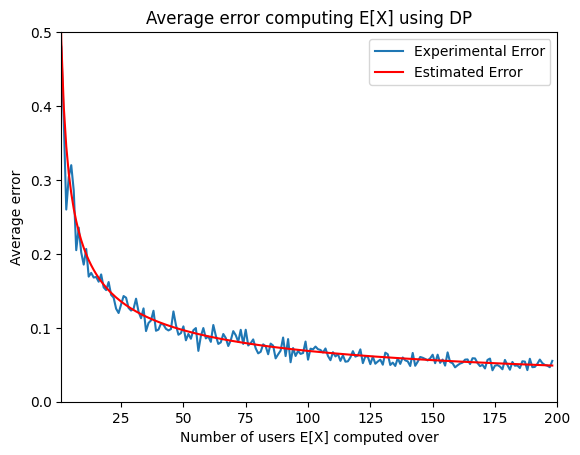
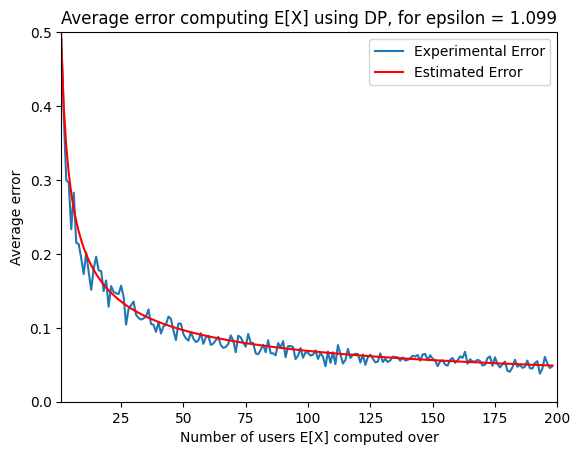
abstract epsilon

Changed region(s): [[0.1241, 0.4923, 0.9621, 0.8308], [0.0931, 0.0, 0.9621, 0.0615], [0.0931, 0.3385, 0.1552, 0.4923]]

diff --git a/Generate_QR_Token.py b/Generate_QR_Token.py
@@ -14,6 +14,7 @@ import base64
 import OpenSSL
 import numpy as np
 from OpenSSL import crypto
+import math
 from math import sqrt, pi, exp
 
 
@@ -43,61 +44,26 @@ class TokenData:
 
         return self.cert_bytes + cert_sign_len + cert_sign_bytes
 
+# return the token value based on the test_result input. Test result is 0 or 1.
+def output_token(test_result, epsilon):
 
-# Simulate issuing nUsers health tokens from a prior distribution priorP.
-# The number of risk classes k is derived from len(priorP)
-# Returns the real user antibody statuses, the randomised health tokens and
-# the absolute error between the two.
-def simulate_DPHT(nUsers, priorP=[1./50, 49./50], silent=True):
+    output_correct = (exp(epsilon) - 1) / (exp(epsilon) + 2 - 1)
 
-    k = len(priorP)
-    antibody_status = np.random.choice(list(range(k)), size=(nUsers,), p=priorP)
-    token_bits = np.zeros(nUsers)
+    # Flip biased first coin
+    coin0 = np.random.choice([0,1], p = [1 - output_correct, output_correct])
+    if coin0 == 1:
+        # Let token contain real antibody status
+        token = test_result
+    else:
+        # Flip Second Coin
+        token = np.random.choice([0,1])
 
-    for user in range(nUsers):
-        # H flips bit for each user
-        h_bit_0 = np.random.choice([0,1])
-        if h_bit_0 == 1:
-            # Let certificate contain real antibody status
-            token_bits[user] = antibody_status[user]
-        else:
-            # Flip Second Coin
-            h_bit_1 = np.random.choice([0,1])
-            if h_bit_1 == 1:
-                # Randomise antibody status
-                token_bits[user] = 1
-            else:
-                # Certificate indicate non-antibody
-                pass
-
-    token_bits = token_bits.astype(int)
-
-    # E(X) = 2(x - 1/4) where x is the fraction of people who hold X on their health token.
-    x = np.count_nonzero(token_bits)/float(token_bits.size)
-    e_x = abs(2*(x-0.25))
-    real_x = np.count_nonzero(antibody_status)/float(antibody_status.size)
-    error = abs(real_x-e_x)
-
-    if not silent:
-        print('Actual antibody bits: {}'.format(antibody_status))
-        print('Real antibody rate: {}'.format(real_x))
-        print('DP antibody bits: {}'.format(token_bits))
-        print('E[X] = {}'.format(e_x))
-        print('error = {}'.format(error))
-
-    return antibody_status, token_bits, error
+    return np.array(token)
 
 
-def main():
+def generate_signed_token(test_result, epsilon):
     signer_pkey_filename = 'OpenSSLKeys/sign_key.pem'
     qr_code_filename = 'token_qr.png'
-    simulation_data_filename = 'DPHT_simulation.png'
-
-    # Simulation parameters
-    max_users = 200
-    nIterations = 50
-    errors = []
-    priorP = [1./50, 49./50]
 
     # Define QR code specification
     qr = qrcode.QRCode(
@@ -108,8 +74,8 @@ def main():
     )
 
     # Create one user token
-    _, user_token_value, _ = simulate_DPHT(1, priorP)
-    user_token = TokenData(str(user_token_value[0]))
+    user_token_value = output_token(test_result, epsilon)
+    user_token = TokenData(str(user_token_value))
 
     # Load private key for signing user data
     key_file = open(signer_pkey_filename, "r")
@@ -128,7 +94,7 @@ def main():
     try:
         qr.make(fit=True)
     except qrcode.exceptions.DataOverflowError:
-        print('User data too big for QR code. Please optimise image.')
+        print('User data too big for QR code.')
         exit()
 
     qr_img = qr.make_image(fill_color="black", back_color="white")
@@ -138,6 +104,49 @@ def main():
     print('Example user health token QR code output to {}'.format(qr_code_filename))
     print('Done.')
 
+    return
+
+# Simulate issuing nUsers health tokens from a prior distribution priorP.
+# The number of risk classes k is derived from len(priorP)
+# Returns the real user antibody statuses, the randomised health tokens and
+# the absolute error between the two.
+def simulate_DPHT(nUsers, epsilon, priorP, silent=True):
+
+    antibody_status = np.random.choice([0,1], size=(nUsers,), p=priorP)
+    token_bits = np.zeros(nUsers)
+
+    tokens = np.zeros(nUsers)
+
+    for user in range(nUsers):
+            # create token for each user
+        true_status = antibody_status[user]
+        token = output_token(true_status, epsilon)
+        tokens[user] = token
+
+    token_bits = tokens.astype(int)
+
+    # E(X) = 2(x - 1/4) where x is the fraction of people who hold X on their health token.
+    x = np.count_nonzero(token_bits)/float(token_bits.size)
+    e_x = abs(2*(x-0.25))
+    real_x = np.count_nonzero(antibody_status)/float(antibody_status.size)
+    error = abs(real_x-e_x)
+
+    if not silent:
+        print('Actual antibody bits: {}'.format(antibody_status))
+        print('Real antibody rate: {}'.format(real_x))
+        print('DP antibody bits: {}'.format(token_bits))
+        print('E[X] = {}'.format(e_x))
+        print('error = {}'.format(error))
+
+    return error
+
+
+def plot_errors(epsilon, priorP, max_users = 200, nIterations = 50):
+
+    simulation_data_filename = 'DPHT_simulation.png'
+
+    errors = []
+
     # Simulate between 1 and max_users, nIterations many times
     print('Simulating between 1 and {} users, {} times per batch'.format(max_users, nIterations))
     print('Running...')
@@ -145,7 +154,7 @@ def main():
     for nUsers in range(1, max_users):
         nUsers_error = 0
         for iter in range(nIterations):
-            _, _, nUsers_error_temp = simulate_DPHT(nUsers, priorP)
+            nUsers_error_temp = simulate_DPHT(nUsers, epsilon, priorP)
             nUsers_error += nUsers_error_temp
         nUsers_error /= float(nIterations)
         errors += [nUsers_error]
@@ -153,7 +162,7 @@ def main():
     fig, ax = plt.subplots()
     ax.plot(errors, label = 'Experimental Error')
     ax.set(xlabel='Number of users E[X] computed over', ylabel = 'Average error',
-            ylim=[0,0.5], xlim=[1,max_users], title = 'Average error computing E[X] using DP')
+            ylim=[0,0.5], xlim=[1,max_users], title = f'Average error computing E[X] for the Health Token value, for epsilon = {round(epsilon, 3)}')
 
     terrors=[sqrt(3/(2*pi*n)) for n in range(1,max_users)]
     ax.plot(terrors, color='red', label = 'Estimated Error')
@@ -162,4 +171,14 @@ def main():
 
 
 if __name__ == '__main__':
-    main()
+
+    # set the value of epsilon and the real test_result value
+    epsilon = math.log(3)
+    test_result = True
+
+    generate_signed_token(test_result, epsilon)
+
+    # set the prior distributon of antibodies
+    priorP = [1./50, 49./50]
+
+    plot_errors(epsilon, priorP, max_users = 200, nIterations = 50)
